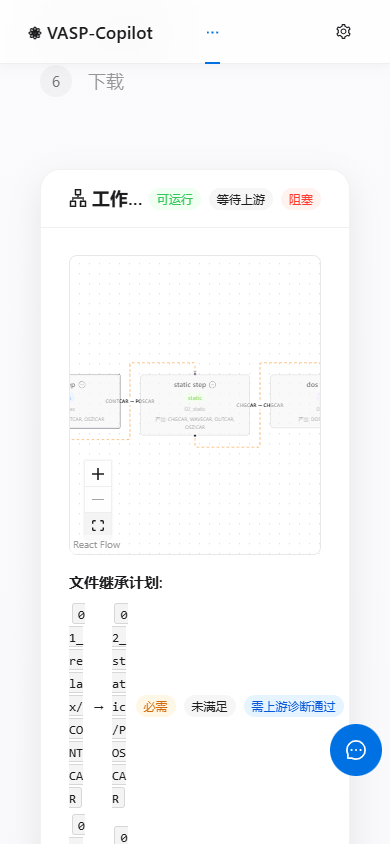
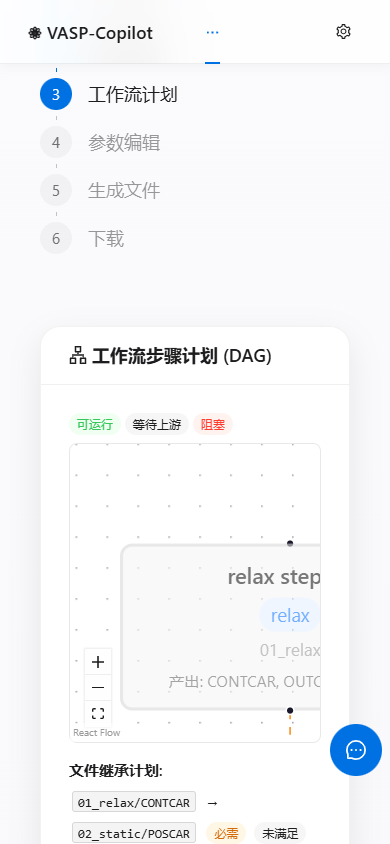
fix: make DAG node selection/drag land (wire onNodesChange) and remove 390px horizontal overflow; refresh real-Chromium acceptance evidence

diff --git a/frontend/src/components/workflow/WorkflowPlanPreview.tsx b/frontend/src/components/workflow/WorkflowPlanPreview.tsx
@@ -2,7 +2,7 @@
 // WorkflowPlanPreview — React Flow DAG 步骤图
 // ============================================================
 
-import React, { useMemo } from 'react';
+import React, { useCallback, useEffect, useMemo, useState } from 'react';
 import { Card, Tag, Space, Typography, Tooltip } from 'antd';
 import { ApartmentOutlined, MinusCircleOutlined } from '@ant-design/icons';
 import {
@@ -10,8 +10,12 @@ import {
   Background,
   Controls,
   MarkerType,
+  applyNodeChanges,
+  applyEdgeChanges,
   type Node,
   type Edge,
+  type NodeChange,
+  type EdgeChange,
 } from '@xyflow/react';
 import '@xyflow/react/dist/style.css';
 import type { WorkflowStep, FileInheritanceDependency } from '../../types/generated-api';
@@ -33,7 +37,7 @@ const TASK_COLORS: Record<string, string> = {
 const NODE_WIDTH = 220;
 
 const WorkflowPlanPreview: React.FC<WorkflowPlanPreviewProps> = ({ steps, dependencies }) => {
-  const nodes: Node[] = useMemo(() => {
+  const derivedNodes: Node[] = useMemo(() => {
     return steps.map((step, idx) => ({
       id: step.step_id,
       type: 'default',
@@ -92,7 +96,7 @@ const WorkflowPlanPreview: React.FC<WorkflowPlanPreviewProps> = ({ steps, depend
     }));
   }, [steps]);
 
-  const edges: Edge[] = useMemo(() => {
+  const derivedEdges: Edge[] = useMemo(() => {
     return dependencies.map((dep) => ({
       id: dep.dependency_id,
       source: dep.from_step_id,
@@ -111,22 +115,45 @@ const WorkflowPlanPreview: React.FC<WorkflowPlanPreviewProps> = ({ steps, depend
     }));
   }, [dependencies]);
 
+  // 受控节点/边状态：plan 变化时重置为派生结果，plan 之外把
+  // React Flow 产生的选中/拖动等 change 回写，交互才能落地。
+  const [nodes, setNodes] = useState<Node[]>(derivedNodes);
+  const [edges, setEdges] = useState<Edge[]>(derivedEdges);
+
+  useEffect(() => {
+    setNodes(derivedNodes);
+  }, [derivedNodes]);
+
+  useEffect(() => {
+    setEdges(derivedEdges);
+  }, [derivedEdges]);
+
+  const onNodesChange = useCallback(
+    (changes: NodeChange[]) => setNodes((nds) => applyNodeChanges(changes, nds)),
+    [],
+  );
+  const onEdgesChange = useCallback(
+    (changes: EdgeChange[]) => setEdges((eds) => applyEdgeChanges(changes, eds)),
+    [],
+  );
+
   return (
     <Card
       title={<span><ApartmentOutlined /> 工作流步骤计划 (DAG)</span>}
-      bordered={false}
-      extra={
-        <Space>
-          <Tag color="success">可运行</Tag>
-          <Tag color="default">等待上游</Tag>
-          <Tag color="error">阻塞</Tag>
-        </Space>
-      }
+      variant="borderless"
     >
+      <Space wrap size={4} style={{ marginBottom: 8 }}>
+        <Tag color="success">可运行</Tag>
+        <Tag color="default">等待上游</Tag>
+        <Tag color="error">阻塞</Tag>
+      </Space>
       <div style={{ width: '100%', height: 300, border: '1px solid #e8e8e8', borderRadius: 8 }}>
         <ReactFlow
           nodes={nodes}
           edges={edges}
+          onNodesChange={onNodesChange}
+          onEdgesChange={onEdgesChange}
+          nodesConnectable={false}
           fitView
           fitViewOptions={{ padding: 0.2, includeHiddenNodes: false }}
           attributionPosition="bottom-left"
@@ -141,7 +168,7 @@ const WorkflowPlanPreview: React.FC<WorkflowPlanPreviewProps> = ({ steps, depend
         <div style={{ marginTop: 8 }}>
           {dependencies.map((dep) => (
             <div key={dep.dependency_id} style={{ marginBottom: 4, fontSize: 13 }}>
-              <Space>
+              <Space wrap>
                 <Text code>{dep.from_step_id}/{dep.source_file}</Text>
                 <span>→</span>
                 <Text code>{dep.to_step_id}/{dep.target_file}</Text>

diff --git a/frontend/src/components/workflow/WorkflowPlanPreview.real.test.tsx b/frontend/src/components/workflow/WorkflowPlanPreview.real.test.tsx
@@ -1,4 +1,4 @@
-import { fireEvent, render, screen } from "@testing-library/react";
+import { fireEvent, render, screen, waitFor } from "@testing-library/react";
 import { describe, expect, it } from "vitest";
 import WorkflowPlanPreview from "./WorkflowPlanPreview";
 import type { FileInheritanceDependency, WorkflowStep } from "../../types/generated-api";
@@ -19,15 +19,19 @@ const step = (label: string): WorkflowStep => ({
 const dependencies: FileInheritanceDependency[] = [];
 
 describe("WorkflowPlanPreview with the real ReactFlow implementation", () => {
-  it("renders a real selectable and draggable node without a minimap", () => {
+  it("renders a real selectable and draggable node without a minimap", async () => {
     render(<WorkflowPlanPreview steps={[step("真实 ReactFlow 节点")] } dependencies={dependencies} />);
 
     const node = document.querySelector(".react-flow__node");
     expect(node).toBeTruthy();
     expect(screen.queryByTestId("minimap")).not.toBeInTheDocument();
     expect(node).toHaveClass("selectable", "draggable");
-    fireEvent.pointerDown(node!, { button: 0, clientX: 100, clientY: 100 });
-    fireEvent.pointerUp(node!, { button: 0, clientX: 100, clientY: 100 });
+    const pointerInit = { bubbles: true, cancelable: true, button: 0, buttons: 1, pointerType: "mouse", clientX: 100, clientY: 100 };
+    node!.dispatchEvent(new PointerEvent("pointerdown", { ...pointerInit }));
+    node!.dispatchEvent(new PointerEvent("pointerup", { ...pointerInit, buttons: 0 }));
+    fireEvent.click(node!);
+    // 接上 onNodesChange 后，点击产生的 select change 必须被回写落地。
+    await waitFor(() => expect(node).toHaveClass("selected"), { timeout: 3000 });
   });
 
   it("renders long labels in a narrow viewport without adding a minimap", () => {

diff --git a/frontend/src/pages/WorkflowBuilderPage.tsx b/frontend/src/pages/WorkflowBuilderPage.tsx
@@ -540,7 +540,7 @@ const WorkflowBuilderPage: React.FC = () => {
 
       {/* 导航按钮 */}
       {currentStep !== 'download' && currentStep !== 'upload' && currentStep !== 'confirm' && (
-        <div style={{ marginTop: 24, display: 'flex', justifyContent: 'space-between' }}>
+        <div style={{ marginTop: 24, display: 'flex', justifyContent: 'space-between', flexWrap: 'wrap', rowGap: 8 }}>
           <Button
             icon={<ArrowLeftOutlined />}
             onClick={() => {
@@ -550,7 +550,7 @@ const WorkflowBuilderPage: React.FC = () => {
           >
             上一步
           </Button>
-          <Space>
+          <Space wrap>
             {currentStep === 'plan' && (
               <Button
                 onClick={() => setCurrentStep('edit')}

diff --git a/frontend/src/components/workflow/WorkflowPlanPreview.test.tsx b/frontend/src/components/workflow/WorkflowPlanPreview.test.tsx
@@ -30,6 +30,8 @@ vi.mock("@xyflow/react", () => ({
   Controls: () => <div data-testid="controls" />,
   MiniMap: () => <div data-testid="minimap" />,
   MarkerType: { ArrowClosed: "arrowclosed" },
+  applyNodeChanges: (_changes: unknown[], nodes: unknown[]) => nodes,
+  applyEdgeChanges: (_changes: unknown[], edges: unknown[]) => edges,
 }));
 
 const steps: WorkflowStep[] = [{
